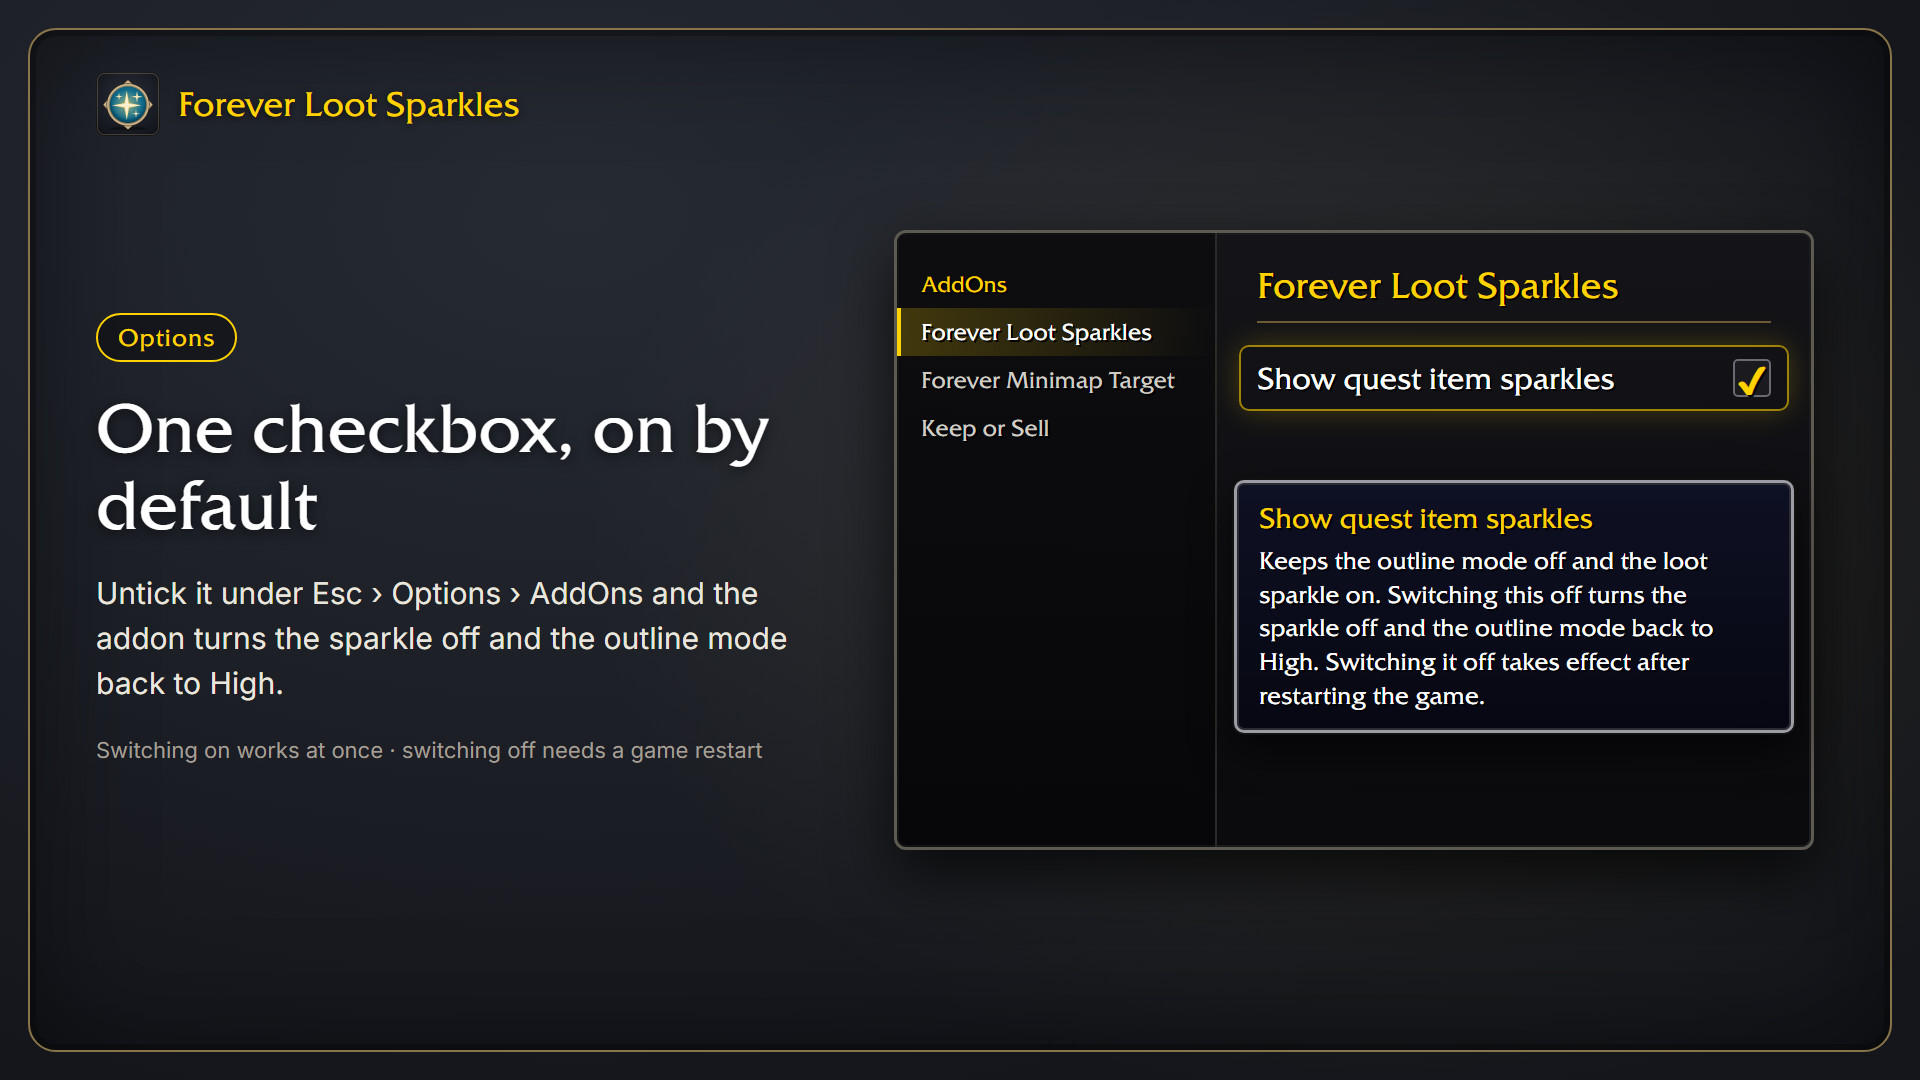
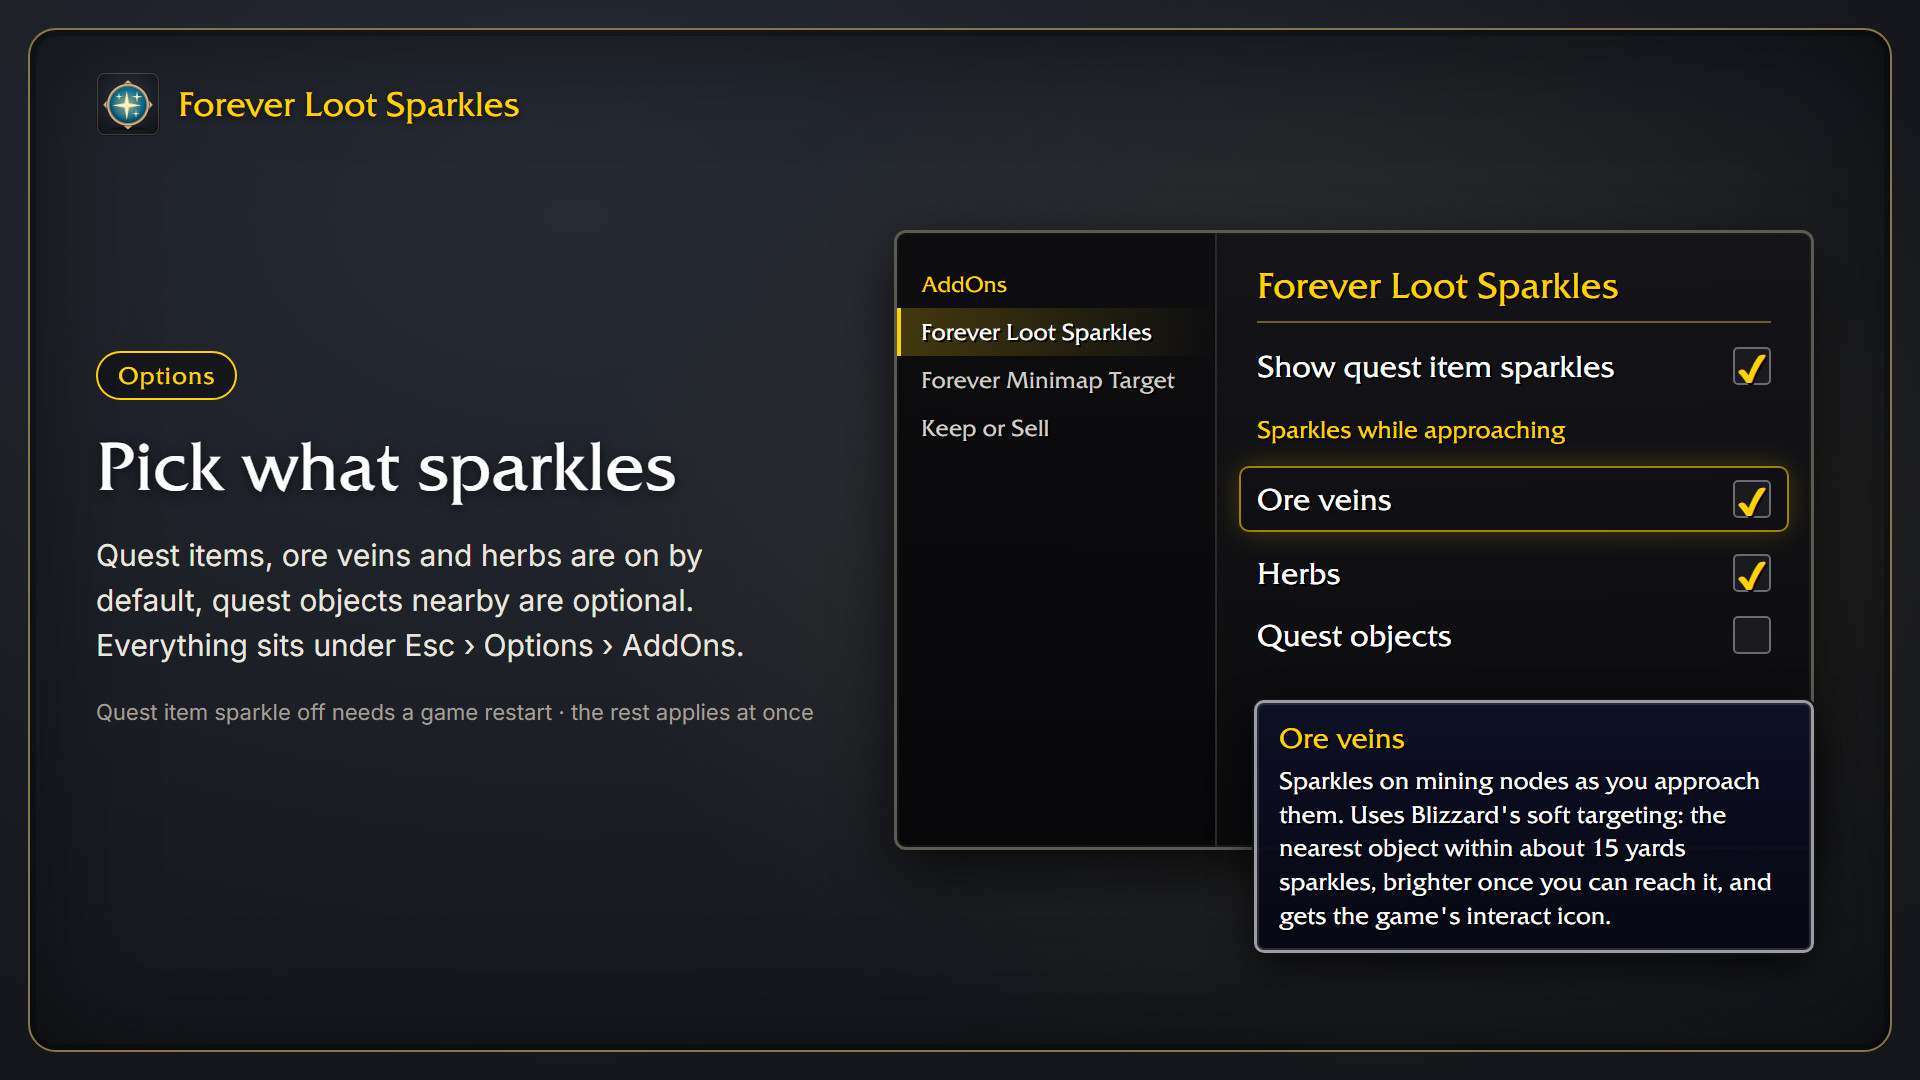
docs: herb and ore gallery image, extended README

diff --git a/media/gallery/04-gathering.html b/media/gallery/04-gathering.html
@@ -1,0 +1,60 @@
+<!doctype html>
+<html lang="en">
+<head>
+<meta charset="utf-8">
+<title>Forever Loot Sparkles – Herbs and ore</title>
+<link rel="stylesheet" href="https://fonts.googleapis.com/css2?family=Inter:wght@400;600&display=block">
+<link rel="stylesheet" href="style.css">
+<style>
+  .states { display: flex; flex-direction: column; gap: 22px; width: 340px; }
+  .state {
+    display: flex; align-items: center; gap: 22px; padding: 22px 26px;
+    background: linear-gradient(180deg, rgba(22, 22, 26, 0.97), rgba(12, 12, 15, 0.97));
+    border: 3px solid #5d5a52; border-radius: 12px;
+    box-shadow: inset 0 0 0 2px #1a1a1a, 0 18px 40px rgba(0, 0, 0, 0.6);
+    font-family: "Friz", serif; font-size: 30px; color: #fff; text-shadow: 2px 2px 0 #000;
+  }
+  .state small {
+    display: block; margin-top: 4px;
+    font-family: "Inter", "Segoe UI", sans-serif; font-size: 20px; color: var(--muted); text-shadow: none;
+  }
+  .glint { position: relative; flex: none; width: 56px; height: 56px; }
+  .glint::before, .glint::after {
+    content: ""; position: absolute; left: 50%; top: 50%;
+    background: radial-gradient(ellipse at center, #fff 0%, var(--c) 30%, transparent 70%);
+  }
+  .glint::before { width: 56px; height: 10px; margin: -5px 0 0 -28px; }
+  .glint::after { width: 10px; height: 56px; margin: -28px 0 0 -5px; }
+  .glint span {
+    position: absolute; inset: 14px; border-radius: 50%;
+    background: radial-gradient(circle, #fff 0%, var(--c) 35%, transparent 72%);
+  }
+  .far { --c: rgba(255, 224, 133, 0.55); opacity: 0.6; }
+  .ready { --c: rgba(255, 224, 133, 1); }
+  .ready + span { color: var(--gold); }
+  .locked { --c: rgba(160, 160, 160, 0.9); opacity: 0.7; }
+  .state.on {
+    border-color: var(--gold);
+    box-shadow: inset 0 0 0 2px #1a1a1a, 0 0 40px rgba(255, 210, 0, 0.18), 0 18px 40px rgba(0, 0, 0, 0.6);
+  }
+</style>
+</head>
+<body>
+<div class="frame"></div>
+<div class="brand"><img src="../logo.png" alt="">Forever Loot Sparkles</div>
+<div class="copy">
+  <span class="chip" style="color: var(--gold)">New in 1.2</span>
+  <h1>Herbs and ore<br>sparkle too</h1>
+  <p>Walk up to a herb or an ore vein and golden glints twinkle over it, with the game's gathering icon above.</p>
+  <p class="note">Uses Blizzard's soft targeting · nearest node within about 15 yards · quest objects optional</p>
+</div>
+<div class="stage" style="gap: 44px;">
+  <div class="shot on" style="width: 540px;"><img src="shot-herb.png" alt=""><span class="label">In game</span></div>
+  <div class="states">
+    <div class="state"><div class="glint far"><span></span></div><span>Out of reach<small>Dim glints</small></span></div>
+    <div class="state on"><div class="glint ready"><span></span></div><span>In reach<small>Bright, with a burst</small></span></div>
+    <div class="state"><div class="glint locked"><span></span></div><span>Can't gather<small>Grey, skill too low</small></span></div>
+  </div>
+</div>
+</body>
+</html>

diff --git a/media/gallery/03-options.html b/media/gallery/03-options.html
@@ -11,9 +11,9 @@
 <div class="brand"><img src="../logo.png" alt="">Forever Loot Sparkles</div>
 <div class="copy">
   <span class="chip" style="color: var(--gold)">Options</span>
-  <h1>One checkbox, on by default</h1>
-  <p>Untick it under Esc › Options › AddOns and the addon turns the sparkle off and the outline mode back to High.</p>
-  <p class="note">Switching on works at once · switching off needs a game restart</p>
+  <h1>Pick what sparkles</h1>
+  <p>Quest items, ore veins and herbs are on by default, quest objects nearby are optional. Everything sits under Esc › Options › AddOns.</p>
+  <p class="note">Quest item sparkle off needs a game restart · the rest applies at once</p>
 </div>
 <div class="stage">
   <div style="position: relative;">
@@ -26,11 +26,15 @@
       </div>
       <div class="main">
         <h2>Forever Loot Sparkles</h2>
-        <div class="row hl"><span class="label">Show quest item sparkles</span><span class="box on"></span></div>
+        <div class="row"><span class="label">Show quest item sparkles</span><span class="box on"></span></div>
+        <div class="row" style="font-size: 24px; color: var(--gold); margin-top: 6px;">Sparkles while approaching</div>
+        <div class="row hl"><span class="label">Ore veins</span><span class="box on"></span></div>
+        <div class="row"><span class="label">Herbs</span><span class="box on"></span></div>
+        <div class="row"><span class="label">Quest objects</span><span class="box"></span></div>
       </div>
     </div>
-    <div class="tip" style="left: 340px; top: 250px; width: 560px;">
-      <b>Show quest item sparkles</b>Keeps the outline mode off and the loot sparkle on. Switching this off turns the sparkle off and the outline mode back to High. Switching it off takes effect after restarting the game.
+    <div class="tip" style="left: 360px; top: 470px; width: 560px;">
+      <b>Ore veins</b>Sparkles on mining nodes as you approach them. Uses Blizzard's soft targeting: the nearest object within about 15 yards sparkles, brighter once you can reach it, and gets the game's interact icon.
     </div>
   </div>
 </div>

diff --git a/README.md b/README.md
@@ -2,33 +2,73 @@
 
 <img src="https://raw.githubusercontent.com/svengabr/ForeverLootSparkles/main/media/logo.png" alt="ForeverLootSparkles logo" width="128">
 
-A tiny addon for **World of Warcraft: Forever** that always shows the sparkle effect on lootable quest items.
+A small addon for **World of Warcraft: Forever** that makes lootable things sparkle, so you never walk past them.
 
-The sparkle only appears while the outline mode is off. Graphics presets switch it back on, so the addon sets the needed console variables at login and again whenever a graphics change resets them.
-
-The game has no sparkle for ore veins and herbs, so the addon adds its own: as you approach a node, a small cluster of golden glints twinkles over it. They are dim while the node is out of reach, brighten once you can gather it, and turn grey when you can't (skill too low). This uses Blizzard's soft targeting, which marks the nearest interactable object within about 15 yards; the game's interact icon is switched on above it as well.
+- **Quest items** always show the game's loot sparkle, even after a graphics preset turns it off.
+- **Herbs and ore veins** sparkle as you approach them, which the game can't do on its own.
+- **Gathering icons** float above the node you're heading for.
+- Everything is optional, under Esc > Options > AddOns. No slash commands, nothing to set up.
 
 ![Forever Loot Sparkles](https://raw.githubusercontent.com/svengabr/ForeverLootSparkles/main/media/gallery/01-overview.jpg)
 
+## Quest item sparkles
+
+The game only shows the sparkle on quest items while the outline mode is off. Graphics presets switch the outline back on, so the addon sets the needed console variables at login, and again about a second after any graphics change resets them. During combat it waits until the fight is over.
+
 ![Survives graphics presets](https://raw.githubusercontent.com/svengabr/ForeverLootSparkles/main/media/gallery/02-presets.jpg)
+
+## Herb and ore sparkles
+
+The game has no sparkle for ore veins and herbs, so the addon adds its own. As you approach a node, a small cluster of golden glints twinkles over it, and the game's gathering icon appears above it.
+
+- **Out of reach:** the glints are dim.
+- **In reach:** they brighten with a short burst, so you know you can gather now.
+- **Can't gather:** they turn grey, for example when your skill is too low.
+
+This uses Blizzard's soft targeting, which picks the nearest interactable object around you, up to about 15 yards away. Only one node sparkles at a time: the one the game would interact with. Quest objects can get the same treatment, but that is off by default, since the loot sparkle above already marks most of them.
+
+The addon only switches on the game's name and icon for nodes that sparkle. NPCs, mailboxes and other objects still work with the interact key as usual.
+
+![Herbs and ore sparkle too](https://raw.githubusercontent.com/svengabr/ForeverLootSparkles/main/media/gallery/04-gathering.jpg)
 
 ## Options
 
-Open **Esc > Options > AddOns > Forever Loot Sparkles**. The checkbox **Show quest item sparkles** is on by default. Switching it off stops the addon from touching the graphics settings, turns the loot sparkle off and sets the outline mode back to High (the two commands below). Switching it on works at once. Switching it off only takes effect after **restarting the game**; `/reload` is not enough. The panel shows a reminder.
+Open **Esc > Options > AddOns > Forever Loot Sparkles**.
 
-Under **Sparkles while approaching** there are three more checkboxes: **Ore veins** and **Herbs** (on by default) and **Quest objects** (off by default, since the game's loot sparkle already marks most of them). They take effect at once.
+| Checkbox | Default | What it does |
+| --- | --- | --- |
+| Show quest item sparkles | on | Keeps the outline mode off and the loot sparkle on. |
+| Ore veins | on | Sparkles and icon on mining nodes. |
+| Herbs | on | Sparkles and icon on herbs. |
+| Quest objects | off | Extra sparkles on quest objects nearby. |
+
+The three bottom checkboxes take effect at once. **Show quest item sparkles** works at once when you switch it on, but switching it off only takes effect after **restarting the game** (`/reload` is not enough). The panel shows a reminder.
 
 ![Options](https://raw.githubusercontent.com/svengabr/ForeverLootSparkles/main/media/gallery/03-options.jpg)
 
 ## Install
 
-1. Download the latest release zip.
+1. Download the latest release zip, or install it with the CurseForge app.
 2. Extract it so you have `World of Warcraft\_classic_beta_\Interface\AddOns\ForeverLootSparkles`.
 3. Restart the game or type `/reload`.
 
+## FAQ
+
+**Why don't herbs get the same sparkle as quest items?**
+The game has no setting for that. The quest item sparkle replaces the outline that quest items have, and herbs and ore have no such outline. That is why the addon draws its own glints instead.
+
+**Can the range be larger than 15 yards?**
+The addon asks the game for the largest range, but the game itself drops the target at about 15 yards.
+
+**I also see an icon above NPCs or other objects.**
+The game's soft target icons are switched on for everything you can interact with, not only for herbs and ore.
+
+**Does it work together with Lueur?**
+Don't run both at once. They change the same soft targeting settings and get in each other's way.
+
 ## Turning it off again
 
-The easiest way is the checkbox under Options (see above), which resets the settings for you.
+The easiest way is the checkboxes under Options (see above), which put the settings back for you. Untick all of them before you disable the addon.
 
 Disabling the addon in the addon list does **not** undo the settings, because WoW saves console variables itself. After disabling it, either pick a graphics preset again, or type:
 
@@ -39,9 +79,11 @@ Disabling the addon in the addon list does **not** undo the settings, because Wo
 
 Then restart the game.
 
-The soft targeting settings for the approach sparkles are put back as soon as all three checkboxes under **Sparkles while approaching** are off. Untick them before disabling the addon.
+The soft targeting settings are put back as soon as **Ore veins**, **Herbs** and **Quest objects** are all off.
 
 ## What it sets
+
+For the quest item sparkles:
 
 | Console variable | Value |
 | --- | --- |
@@ -51,12 +93,12 @@ The soft targeting settings for the approach sparkles are put back as soon as al
 | `raidGraphicsOutlineMode` | 0 |
 | `RAIDOutlineEngineMode` | 0 |
 
-For the approach sparkles, while at least one of their checkboxes is on (the original values are saved and restored):
+For the herb and ore sparkles, while at least one of their checkboxes is on (the original values are saved and restored):
 
 | Console variable | Value |
 | --- | --- |
 | `SoftTargetInteract` | 3 |
-| `SoftTargetInteractRange` | 60 (the client still stops at about 15 yards) |
+| `SoftTargetInteractRange` | 60 (the game still stops at about 15 yards) |
 | `SoftTargetInteractArc` | 2 |
 | `SoftTargetInteractOnlyInRange` | 0 |
 | `SoftTargetIconInteract` | 1 |

diff --git a/media/gallery/README.md b/media/gallery/README.md
@@ -2,7 +2,7 @@
 
 Source for the CurseForge gallery: one HTML page per image (1920×1080), shared look in `style.css`
 (same frame as ForeverMinimapTarget and KeepOrSell). `shot-off.png` and `shot-on.png` are cropped from
-`../before-after.png` (in-game screenshots).
+`../before-after.png` (in-game screenshots); `shot-herb.png` is an in-game screenshot of the herb sparkles.
 
 Render all pages to JPG (or a single one with `sh render.sh 02-presets.html`):
 
